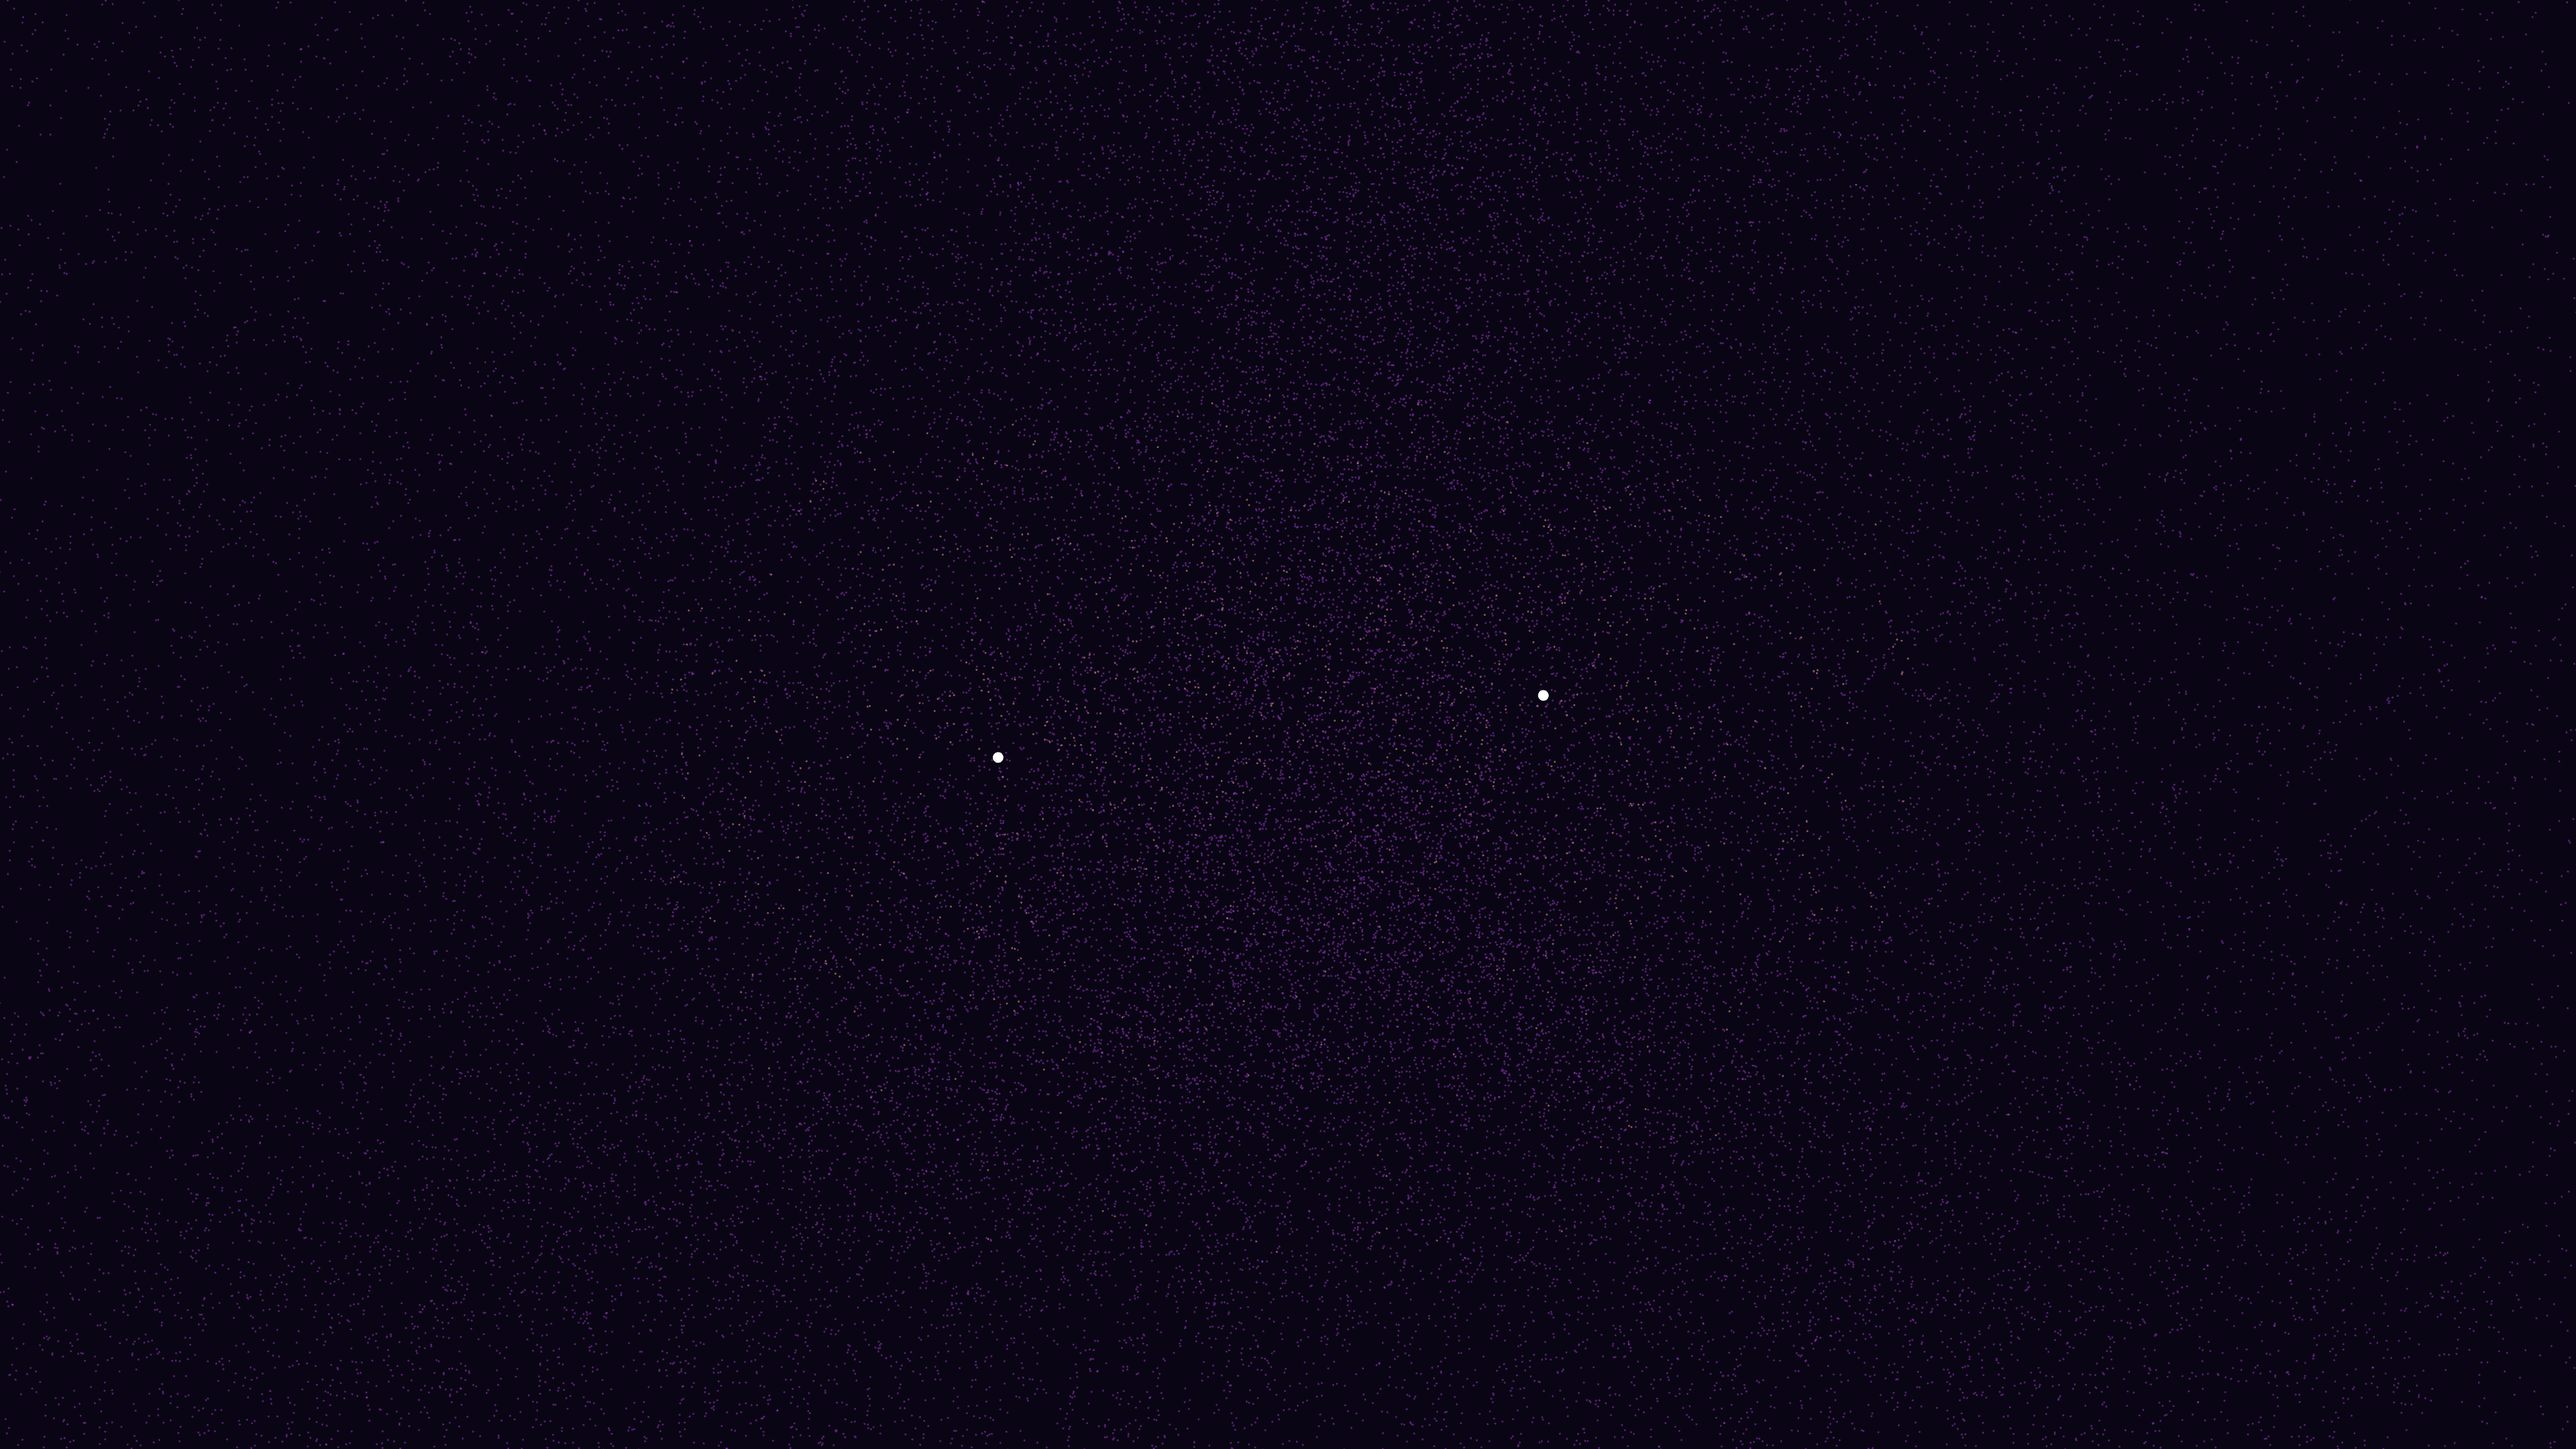
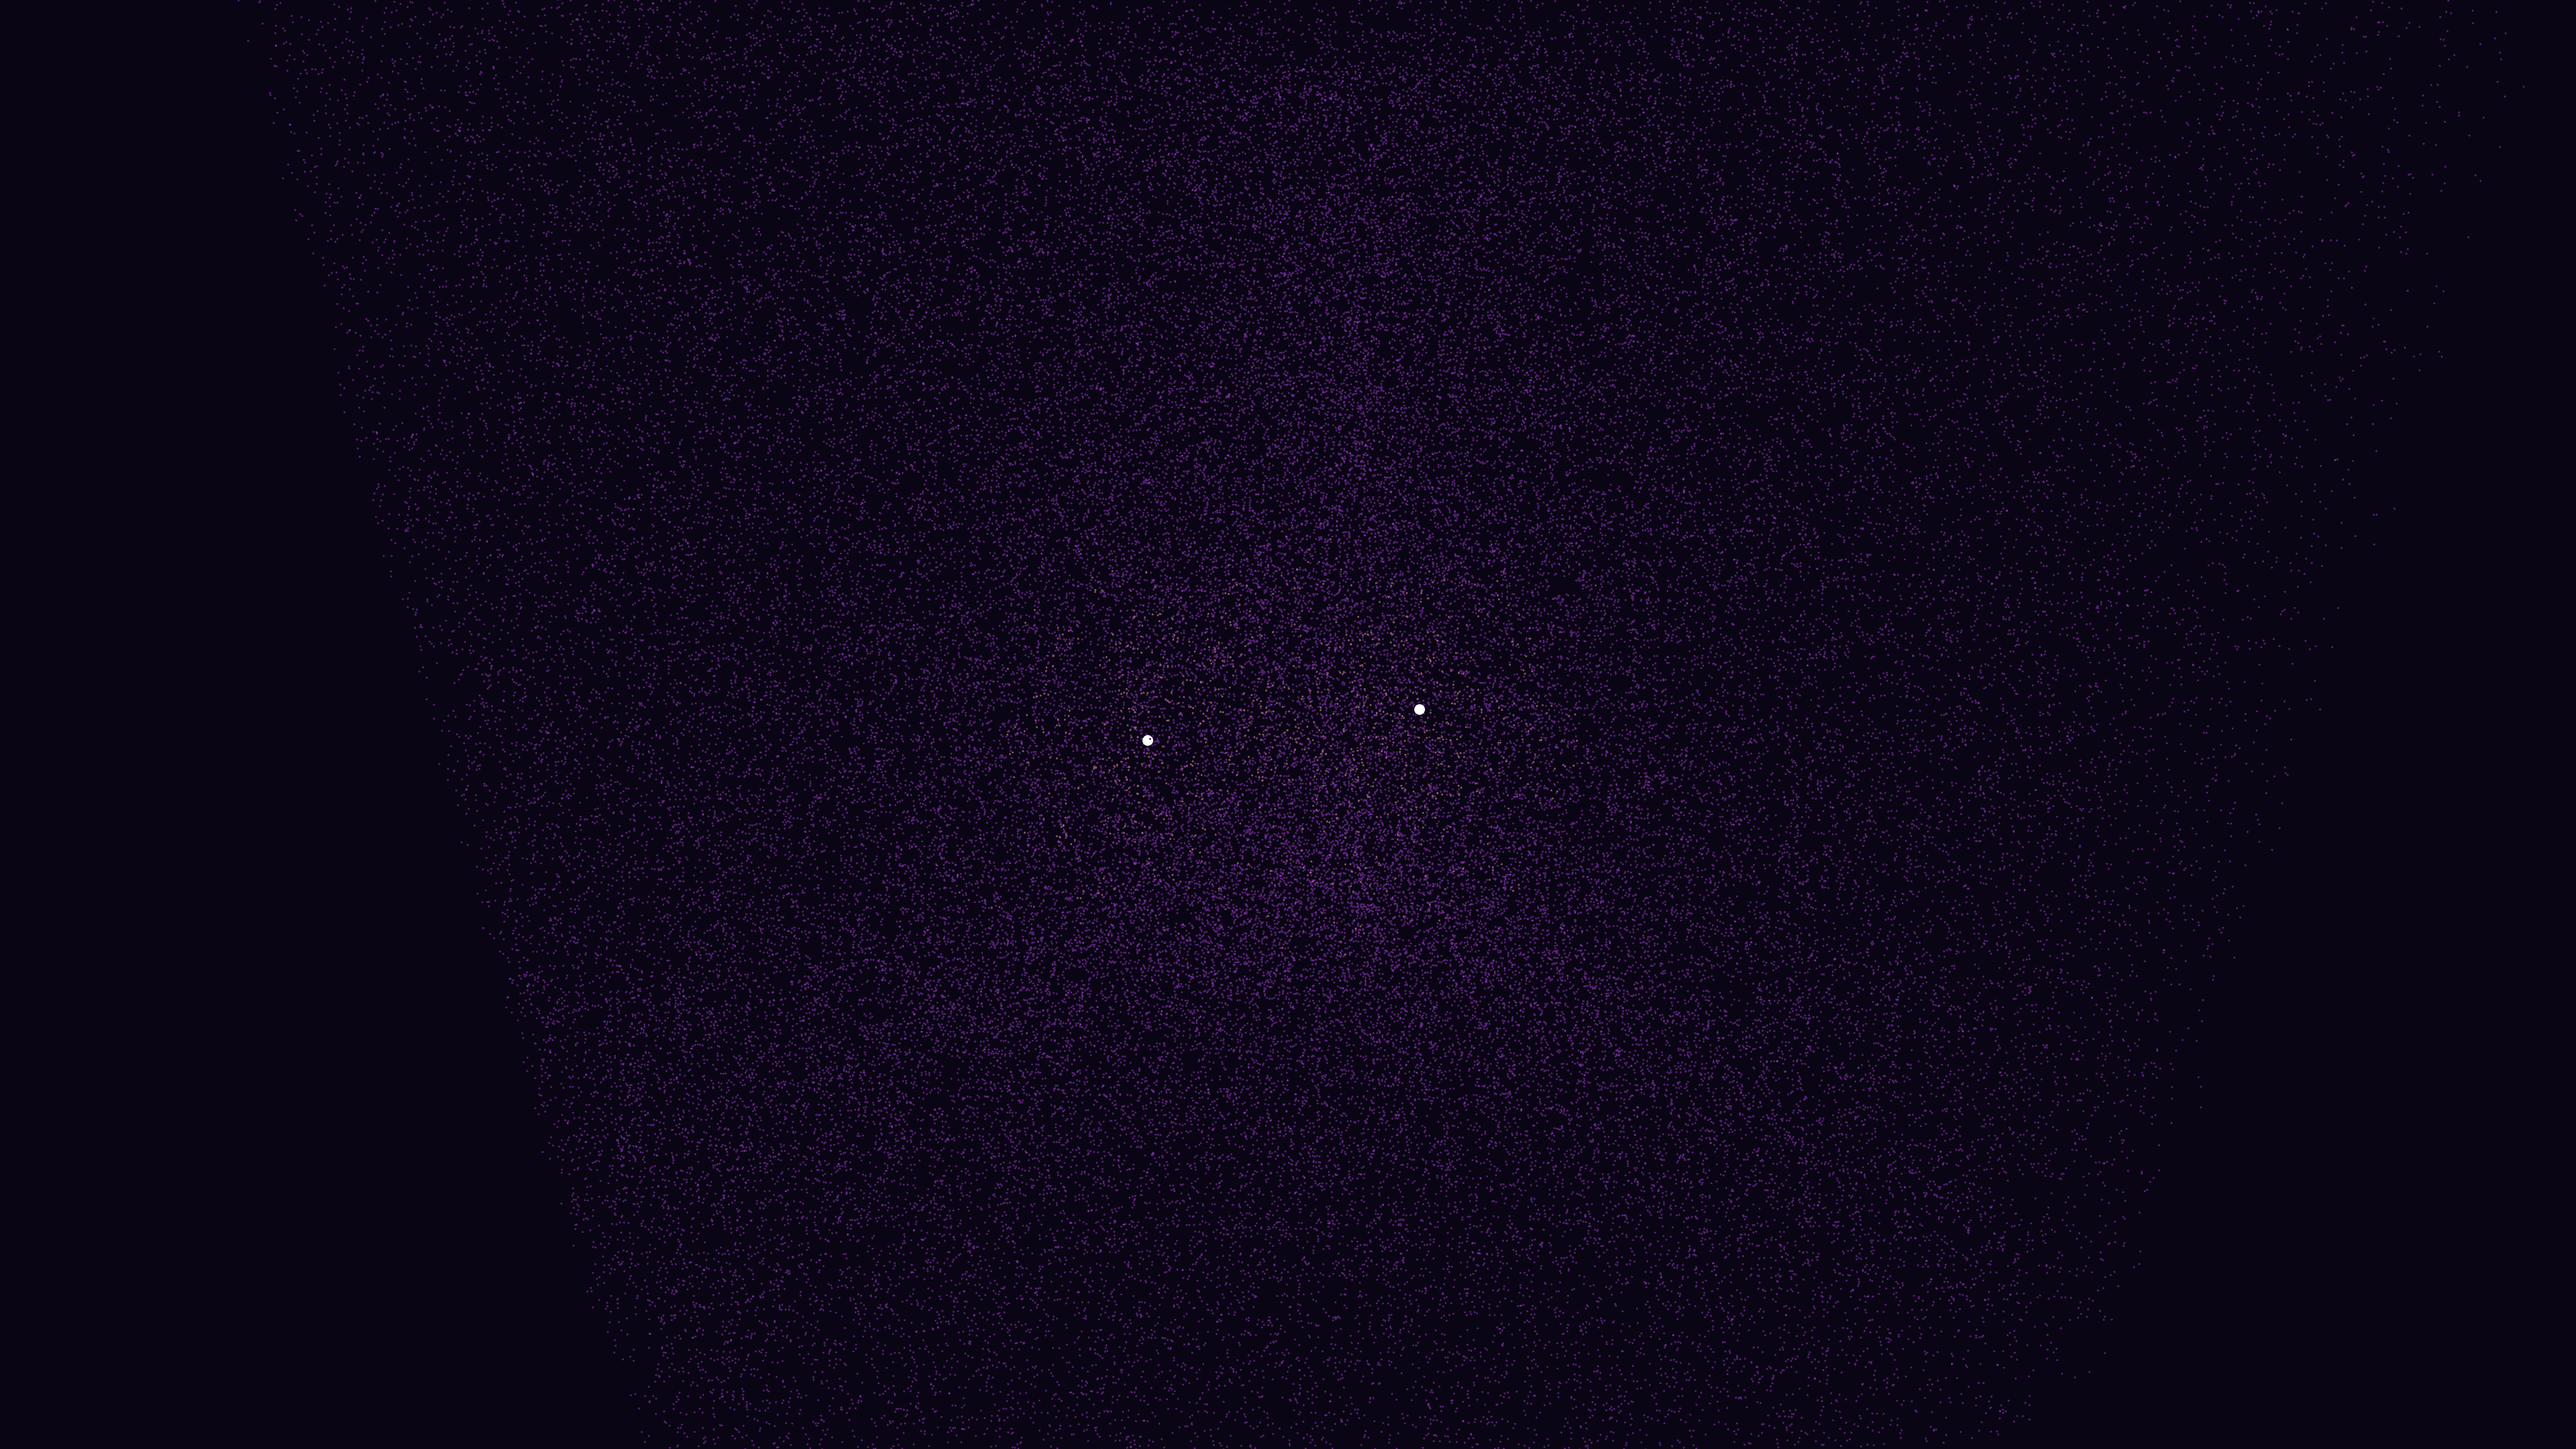
feat: upgrade gravitational_wave_chirp to 4K resolution and render output

diff --git a/sketch/gravitational_wave_chirp/main.py b/sketch/gravitational_wave_chirp/main.py
@@ -18,7 +18,8 @@ DURATION_SEC = 15
 FPS = 60
 TOTAL_FRAMES = DURATION_SEC * FPS
 PREVIEW_FILENAME = f"{WORK_NAME}_p1.png"
-PREVIEW_SIZE, OUTPUT_SIZE, SIZE = get_sizes()
+PREVIEW_SIZE, OUTPUT_SIZE, _ = get_sizes()
+SIZE = OUTPUT_SIZE  # Force 4K resolution (3840x2160)
 
 # Simulation Parameters
 NUM_PARTICLES = 80000
@@ -77,16 +78,24 @@ class ChirpSimulation:
 
 sim = ChirpSimulation(NUM_PARTICLES)
 
+import shutil
+
 def setup():
     py5.size(*SIZE, py5.P3D)
+    py5.pixel_density(1)  # Capping at 1x density prevents Retina-doubling lag on 4K renders
     py5.smooth(8)
+    if FRAMES_DIR.exists():
+        shutil.rmtree(FRAMES_DIR)
     FRAMES_DIR.mkdir(exist_ok=True)
     py5.background(10, 5, 20)
 
 def draw():
     t = py5.frame_count
+    
+    # Progress logs to prevent command timeouts
     if t % 60 == 0:
-        print(f"Frame {t}")
+        print(f"[Render Progress] Frame {t}/{TOTAL_FRAMES} ({t/TOTAL_FRAMES*100:.1f}%)")
+        
     py5.background(10, 5, 20)
     
     # 3D Camera
@@ -103,7 +112,7 @@ def draw():
     wave_amp = np.linalg.norm(pos - sim.orig_pos, axis=1)
     
     py5.color_mode(py5.HSB, 360, 100, 100, 100)
-    py5.stroke_weight(1.5)
+    py5.stroke_weight(3.0)  # Balanced for 4K
     
     # Draw field
     # Purple (280) to Gold (50)
@@ -124,13 +133,13 @@ def draw():
     # Draw masses
     if not sim.merger:
         py5.stroke(0, 0, 100, 100)
-        py5.stroke_weight(8)
+        py5.stroke_weight(16)  # Balanced for 4K
         py5.point(*sim.m1)
         py5.point(*sim.m2)
     else:
         # Final flash
         py5.stroke(50, 40, 100, 100 * np.exp(-(t-600)*0.1))
-        py5.stroke_weight(20)
+        py5.stroke_weight(40)  # Balanced for 4K
         py5.point(0, 0, 0)
     
     py5.color_mode(py5.RGB, 255, 255, 255, 255)
@@ -141,14 +150,25 @@ def draw():
 
     if py5.frame_count >= TOTAL_FRAMES:
         py5.exit_sketch()
+        
+        print(f"[Render FFmpeg] Compiling {TOTAL_FRAMES} frames into 4K video...")
         subprocess.run([
             "ffmpeg", "-y", "-r", str(FPS),
             "-i", str(FRAMES_DIR / "frame-%04d.png"),
             "-vcodec", "libx264", "-pix_fmt", "yuv420p",
-            "-crf", "28",
+            "-crf", "22",
             str(SKETCH_DIR / f"{WORK_NAME}.mp4"),
         ], check=True)
+        
+        # Mirror output
+        subprocess.run(["cp", str(SKETCH_DIR / f"{WORK_NAME}.mp4"), str(SKETCH_DIR / "output.mp4")], check=True)
+        
         mid = str(FRAMES_DIR / f"frame-{TOTAL_FRAMES // 2:04d}.png")
         subprocess.run(["cp", mid, str(SKETCH_DIR / PREVIEW_FILENAME)], check=True)
+        
+        # Clean up temporary frames
+        if FRAMES_DIR.exists():
+            shutil.rmtree(FRAMES_DIR)
+            print("[Render Cleanup] Temporary frames directory successfully removed.")
 
 py5.run_sketch()

diff --git a/.agents/FEEDBACK.md b/.agents/FEEDBACK.md
@@ -201,7 +201,7 @@ The Artist reads this file before starting a new sketch to understand preference
 
 ## dielectric_breakdown_resonance
 
-- **Rating**: 
+- **Rating**: OK.
 - **Comment**: 
 
 ## z_pinch_instability_flare
